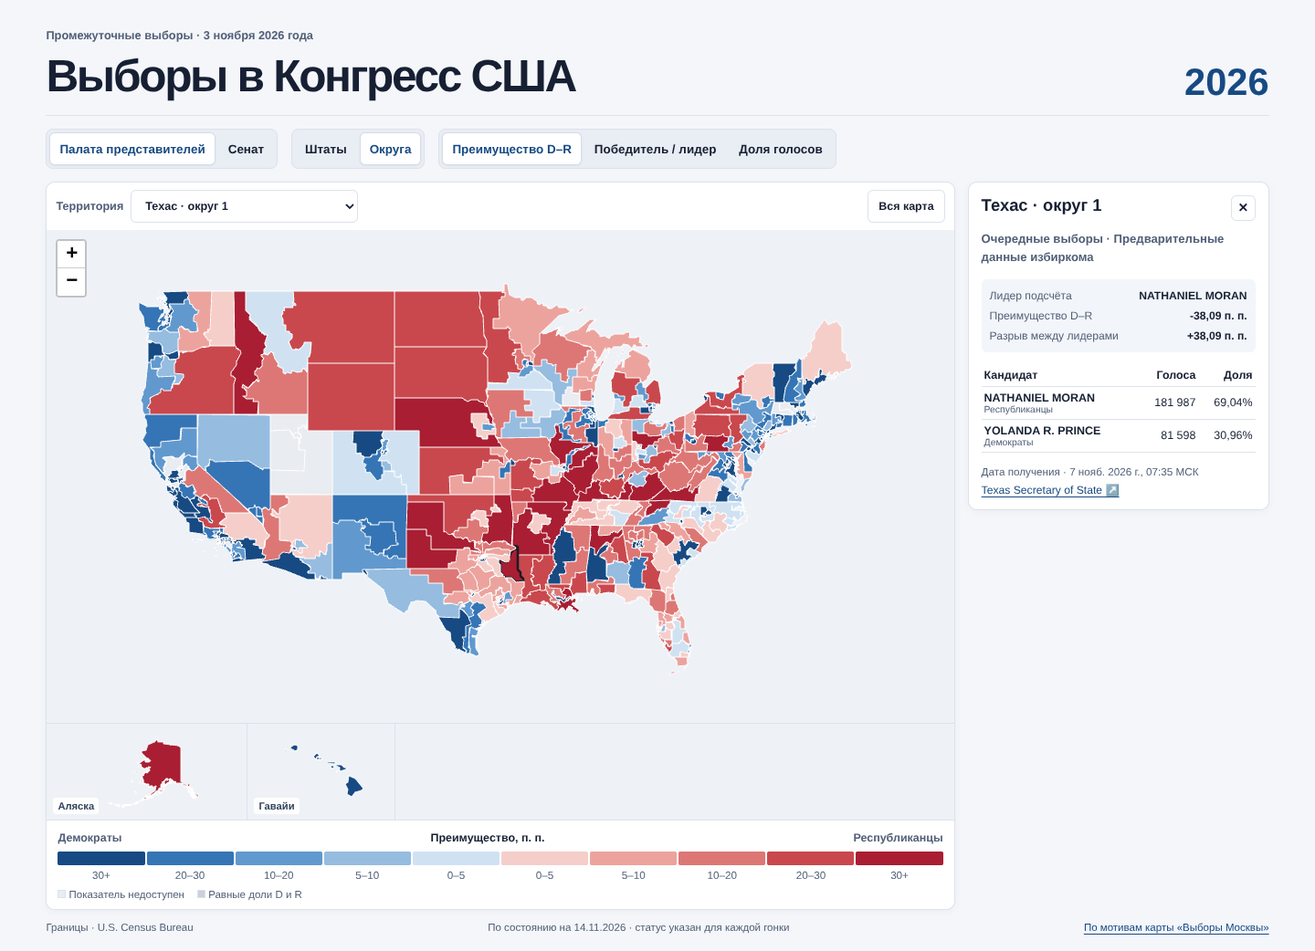
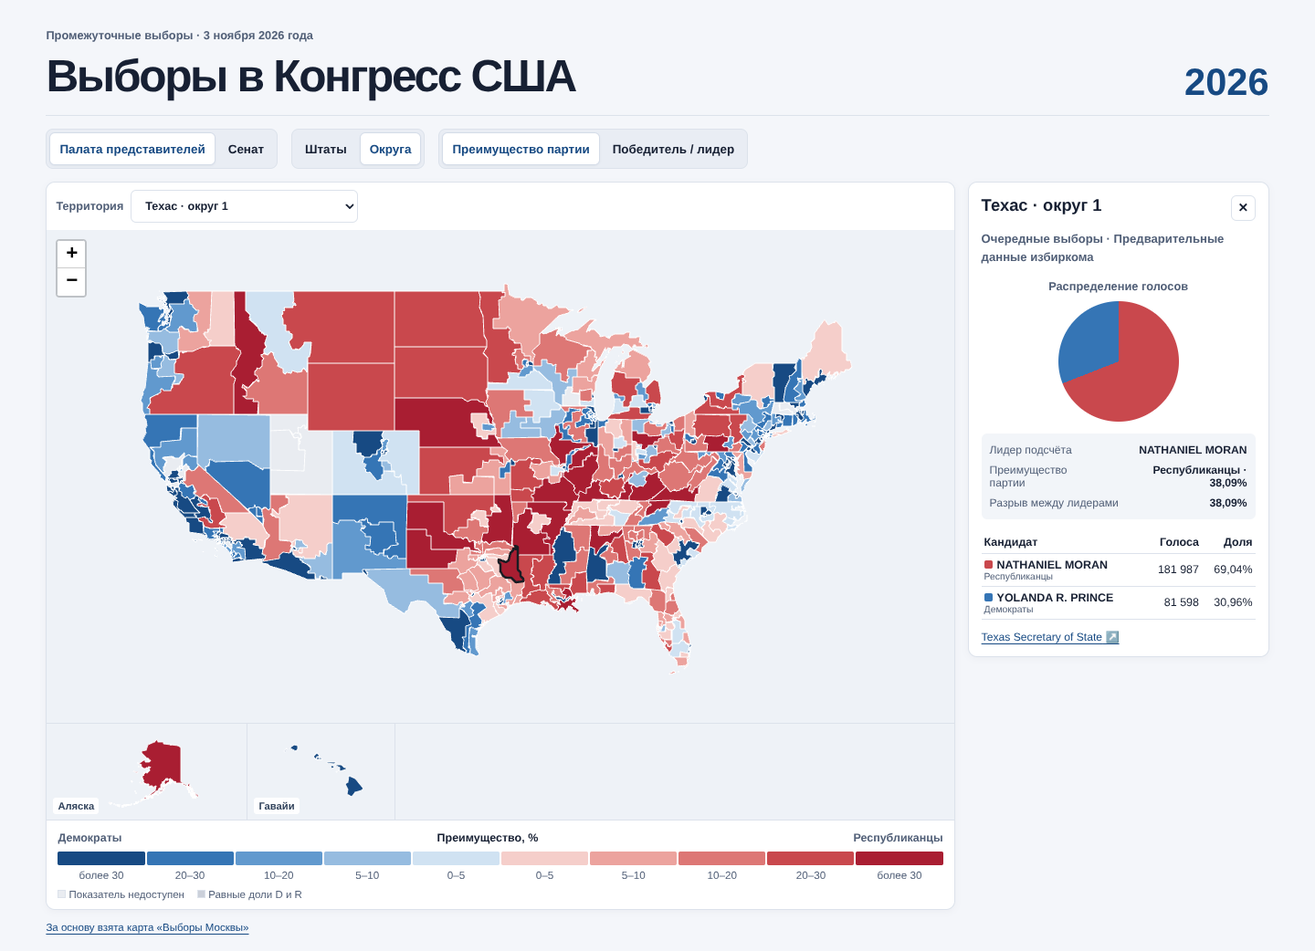
Add election result pie charts and simplify map controls

diff --git a/src/components/ElectionMap.jsx b/src/components/ElectionMap.jsx
@@ -1,6 +1,7 @@
-import React, { useEffect, useMemo } from 'react';
+import React, { useEffect, useLayoutEffect, useMemo, useRef } from 'react';
 import { GeoJSON, MapContainer, useMap } from 'react-leaflet';
-import { areaName, formatMargin } from '../utils/geojsonUtils.js';
+import { formatMargin, marginParty } from '../utils/geojsonUtils.js';
+import { parties } from '../config/elections.js';
 import { featureColor } from '../utils/colorScales.js';
 
 const regions = [
@@ -16,7 +17,7 @@ function alaskaInset(geometry) {
   return { ...geometry, coordinates: move(geometry.coordinates) };
 }
 
-function FitRegion({ bounds, resetKey }) {
+function FitRegion({ bounds }) {
   const map = useMap();
   useEffect(() => {
     const container = map.getContainer();
@@ -29,16 +30,25 @@ function FitRegion({ bounds, resetKey }) {
     });
     observer.observe(container);
     return () => observer.disconnect();
-  }, [bounds, map, resetKey]);
+  }, [bounds, map]);
   return null;
 }
 
-function MapRegion({ region, features, raceFor, metric, selected, select, view, resetKey }) {
+function MapRegion({ region, features, raceFor, metric, selected, select, view }) {
   const data = useMemo(() => ({
     type: 'FeatureCollection', features: features.filter(({ properties }) => region.key === 'main'
       ? !['AK', 'HI'].includes(properties.code) : properties.code === region.key)
       .map((feature) => region.key === 'AK' ? { ...feature, geometry: alaskaInset(feature.geometry) } : feature),
   }), [features, region.key]);
+
+  const layerRef = useRef(null);
+  const tooltipContext = useRef({ raceFor, metric });
+  useLayoutEffect(() => {
+    tooltipContext.current = { raceFor, metric };
+    layerRef.current?.eachLayer((layer) => {
+      if (layer.isTooltipOpen()) layer.getTooltip().update();
+    });
+  }, [raceFor, metric]);
 
   const style = ({ properties }) => ({
     color: selected === properties.geoid ? '#191c23' : '#fff',
@@ -48,19 +58,24 @@ function MapRegion({ region, features, raceFor, metric, selected, select, view, 
 
   const bind = (feature, layer) => {
     const properties = feature.properties;
-    const tooltip = document.createElement('div');
-    const title = document.createElement('strong');
-    title.textContent = areaName(properties);
-    const line = document.createElement('div');
-    const race = raceFor(properties.geoid);
-    line.textContent = race ? (race.leader?.name ?? 'Лидер не установлен') : 'Выборов не было или нет данных';
-    tooltip.append(title, line);
-    if (race?.demMargin != null) {
-      const margin = document.createElement('div');
-      margin.textContent = 'D–R ' + formatMargin(race.demMargin);
-      tooltip.append(margin);
-    }
-    layer.bindTooltip(tooltip, { sticky: true });
+    layer.bindTooltip(() => {
+      const tooltip = document.createElement('div');
+      const title = document.createElement('strong');
+      const { raceFor: currentRaceFor, metric: currentMetric } = tooltipContext.current;
+      const race = currentRaceFor(properties.geoid);
+      const byParty = currentMetric === 'margin' || Boolean(race?.districtCount);
+      const advantage = byParty ? race?.demMargin : race?.leaderMargin;
+      const name = byParty ? parties[marginParty(advantage)] : race?.leader?.name;
+      const tie = byParty ? advantage === 0 : race?.tie;
+      title.textContent = name ?? (tie ? 'Равенство голосов' : 'Нет данных о преимуществе');
+      tooltip.append(title);
+      if (advantage != null) {
+        const margin = document.createElement('div');
+        margin.textContent = formatMargin(advantage);
+        tooltip.append(margin);
+      }
+      return tooltip;
+    }, { sticky: true });
     layer.on({
       click: () => select(properties.geoid),
       mouseover: () => { layer.setStyle({ color: '#222b3a', weight: 2 }); layer.bringToFront(); },
@@ -76,13 +91,13 @@ function MapRegion({ region, features, raceFor, metric, selected, select, view, 
     zoomSnap={0.25} maxZoom={12} scrollWheelZoom={false} dragging={region.key === 'main'}
     doubleClickZoom={region.key === 'main'} touchZoom={region.key === 'main'}
     keyboard={region.key === 'main'} boxZoom={region.key === 'main'} zoomAnimation={false}>
-    <FitRegion bounds={region.bounds} resetKey={resetKey} />
-    <GeoJSON key={view} data={data} style={style} onEachFeature={bind} />
+    <FitRegion bounds={region.bounds} />
+    <GeoJSON key={view} ref={layerRef} data={data} style={style} onEachFeature={bind} />
   </MapContainer>;
 }
 
-export default function ElectionMap({ features, raceFor, metric, selected, select, view, resetKey }) {
-  const props = { features, raceFor, metric, selected, select, view, resetKey };
+export default function ElectionMap({ features, raceFor, metric, selected, select, view }) {
+  const props = { features, raceFor, metric, selected, select, view };
   return <div className="map-layout" data-selected={selected ?? ''}>
     <MapRegion region={regions[0]} {...props} />
     <div className="insets">

diff --git a/src/components/ElectionInfoPanel.jsx b/src/components/ElectionInfoPanel.jsx
@@ -1,13 +1,8 @@
 import React from 'react';
 import { parties, statusLabels } from '../config/elections.js';
-import { areaName, formatMargin, formatNumber, formatPercent } from '../utils/geojsonUtils.js';
+import { areaName, formatMargin, formatNumber, formatPercent, marginParty } from '../utils/geojsonUtils.js';
 
-const dateFormat = new Intl.DateTimeFormat('ru-RU', { dateStyle: 'medium', timeStyle: 'short', timeZone: 'Europe/Moscow' });
-const date = (value) => {
-  if (!value) return '—';
-  const parsed = new Date(value);
-  return Number.isNaN(parsed.valueOf()) ? value : dateFormat.format(parsed) + ' МСК';
-};
+import ElectionPie, { pieColor } from './ElectionPie.jsx';
 
 export default function ElectionInfoPanel({ selected, race, races = [], selectRace, office, clear, featureCount }) {
   if (!selected) return <aside className="info panel" aria-label="Сведения">
@@ -18,7 +13,7 @@ export default function ElectionInfoPanel({ selected, race, races = [], selectRa
 
   const isStateTotal = Boolean(race?.districtCount);
   const status = race ? statusLabels[race.status] : null;
-  const reportDate = race?.updatedAt || race?.retrievedAt;
+  const leadingParty = parties[marginParty(race?.demMargin)];
   return <aside className="info panel" aria-label="Сведения о территории">
     <div className="info-heading"><h2>{areaName(selected)}</h2>
       <button type="button" className="quiet-button" aria-label="Закрыть сведения" onClick={clear}>×</button></div>
@@ -33,24 +28,22 @@ export default function ElectionInfoPanel({ selected, race, races = [], selectRa
       {race.basis === 'first-choice' && <p className="quiet">Первые предпочтения. Лидер по этому подсчёту может отличаться от победителя после перераспределения голосов.</p>}
       {isStateTotal && <p className="quiet">{race.availableCount} из {race.districtCount} округов имеют данные.
         {!race.comparable && ' Сводный показатель недоступен: по части округов голоса или данные по двум партиям несопоставимы.'}</p>}
+      <ElectionPie race={race} />
       <dl className="numbers">
         <div><dt>{isStateTotal ? 'Лидер по голосам' : race.declaredWinner ? 'Победитель' : 'Лидер подсчёта'}</dt>
           <dd>{race.tie && !race.declaredWinner ? 'Равенство голосов' : race.leader?.name ?? '—'}</dd></div>
-        <div><dt>Преимущество D–R</dt><dd>{formatMargin(race.demMargin)}</dd></div>
+        <div><dt>Преимущество партии</dt><dd>{leadingParty && leadingParty + ' · '}{formatMargin(race.demMargin)}</dd></div>
         {!isStateTotal && <div><dt>Разрыв между лидерами</dt><dd>{formatMargin(race.leaderMargin)}</dd></div>}
       </dl>
       <table className="results">
         <thead><tr><th scope="col">{isStateTotal ? 'Партия' : 'Кандидат'}</th>
           <th scope="col">Голоса</th><th scope="col">Доля</th></tr></thead>
         <tbody>{race.candidates.map((candidate, i) => <tr key={candidate.name + '-' + i}>
-          <th scope="row">{candidate.name}{!isStateTotal && <small>{parties[candidate.party] && candidate.party !== 'other' ? parties[candidate.party] : candidate.partyRaw || 'Партия не указана'}</small>}</th>
+          <th scope="row">{race.complete && candidate.votes > 0 && <i className="pie-key" aria-hidden="true" style={{ background: pieColor(race, i) }} />}{candidate.name}{!isStateTotal && <small>{parties[candidate.party] && candidate.party !== 'other' ? parties[candidate.party] : candidate.partyRaw || 'Партия не указана'}</small>}</th>
           <td>{formatNumber(candidate.votes)}</td><td>{formatPercent(candidate.share)}</td>
         </tr>)}</tbody>
       </table>
       <div className="sources">
-        <p>{isStateTotal && race.firstUpdatedAt !== reportDate
-          ? <>Снимки данных от {date(race.firstUpdatedAt)} до {date(reportDate)}</>
-          : <>{race.updatedAt ? 'Обновление источника' : 'Дата получения'} · {date(reportDate)}</>}</p>
         {(race.sources ?? [{ source: race.source, url: race.url }]).filter((item) => item.url)
           .map((item) => <a key={item.url} href={item.url} target="_blank" rel="noreferrer">{item.source} ↗</a>)}
       </div>

diff --git a/src/App.jsx b/src/App.jsx
@@ -14,7 +14,6 @@ export default function App() {
   const [metric, setMetric] = useState('margin');
   const [selected, setSelected] = useState('');
   const [selectedRace, setSelectedRace] = useState('');
-  const [resetKey, setResetKey] = useState(0);
   const [retry, setRetry] = useState(0);
   const [loaded, setLoaded] = useState(null);
   const [error, setError] = useState(null);
@@ -32,7 +31,7 @@ export default function App() {
         if (!current) return;
         const index = indexRaces(result);
         const races = isHouse && geography === 'states' ? summarizeStates(districts.features, index) : index;
-        setLoaded({ key, features: shape.features, races, date: result.snapshotDate });
+        setLoaded({ key, features: shape.features, races });
         setError(null);
       })
       .catch((failure) => { if (current) setError({ key, message: failure.message }); });
@@ -82,23 +81,20 @@ export default function App() {
               {selection.map((item) => <option key={item.geoid} value={item.geoid}>{areaName(item)}</option>)}
             </select>
           </label>
-          <button type="button" className="quiet-button" disabled={loading} onClick={() => setResetKey((n) => n + 1)}>Вся карта</button>
         </div>
         {loading ? <div className="map-placeholder" role={failed ? 'alert' : 'status'}>
           {failed ? <><p>Ошибка загрузки данных. {error.message}</p><button type="button" onClick={() => {
             setError(null); setRetry((n) => n + 1);
           }}>Повторить</button></> : 'Загружаются результаты и границы…'}
         </div> : <ElectionMap key={year + '-' + geography} features={loaded.features}
-          view={key + '-' + selectedRace} {...{ metric, raceFor, selected, select, resetKey }} />}
+          view={key} {...{ metric, raceFor, selected, select }} />}
         <ElectionLegend {...{ metric, office }} />
       </section>
       <ElectionInfoPanel selected={territory} race={raceFor(selected)} races={loaded?.races.get(selected)}
         selectRace={setSelectedRace} clear={() => select('')} featureCount={selection.length} office={office} />
     </div>
     <footer className="footer">
-      <span>Границы · U.S. Census Bureau</span>
-      <span>По состоянию на {loaded?.date ? loaded.date.split('-').reverse().join('.') : '—'} · статус указан для каждой гонки</span>
-      <a href="https://github.com/terracodingzavr/MoscowElectionwebmap">По мотивам карты «Выборы Москвы»</a>
+      <a href="https://terracodingzavr.github.io/MoscowElectionwebmap/">За основу взята карта «Выборы Москвы»</a>
     </footer>
   </main>;
 }

diff --git a/src/utils/colorScales.js b/src/utils/colorScales.js
@@ -1,4 +1,4 @@
-const ranges = ['0–5', '5–10', '10–20', '20–30', '30+'];
+const ranges = ['0–5', '5–10', '10–20', '20–30', 'более 30'];
 const thresholds = [0, 5, 10, 20, 30];
 const partyColors = {
   D: ['#D0E2F2', '#96BCE0', '#6199CE', '#3575B5', '#174A83'],
@@ -15,27 +15,18 @@ export const winnerLegend = [
   { label: 'Республиканцы', color: '#C9484D', party: 'R' },
   { label: 'Другая партия', color: neutral.other, party: 'other' },
 ];
-const shareThresholds = [0, 25, 40, 50, 60];
-const shareColors = ['#ece8f4', '#d6c9e6', '#b39bd1', '#895fb5', '#5b3980'];
-export const shareLegend = ['0–25%', '25–40%', '40–50%', '50–60%', '60%+']
-  .map((label, i) => ({ label, color: shareColors[i] }));
 
 export function marginColor(margin) {
   if (!Number.isFinite(margin)) return neutral.missing;
   if (margin === 0) return neutral.tie;
-  const cut = thresholds.findLastIndex((limit) => Math.abs(margin) >= limit);
+  const strength = Math.abs(margin);
+  const cut = thresholds.findLastIndex((limit) => limit === 30 ? strength > limit : strength >= limit);
   return partyColors[margin > 0 ? 'D' : 'R'][cut];
 }
 
 export function featureColor(race, metric) {
   if (!race) return neutral.missing;
   if (metric === 'margin') return marginColor(race.demMargin);
-  if (metric === 'winner') {
-    if (race.tie) return neutral.tie;
-    return winnerLegend.find((item) => item.party === race.leader?.party)?.color || neutral.missing;
-  }
-  const share = race.candidates.find(({ name }) => name === race.leader?.name)?.share;
   if (race.tie) return neutral.tie;
-  const cut = shareThresholds.findLastIndex((limit) => share != null && share >= limit);
-  return cut === -1 ? neutral.missing : shareColors[cut];
+  return winnerLegend.find((item) => item.party === race.leader?.party)?.color || neutral.missing;
 }

diff --git a/src/styles/map.css b/src/styles/map.css
@@ -65,6 +65,10 @@ h1 { font-weight: 730; font-size: clamp(1.7rem, 4vw, 3.1rem); letter-spacing: -.
 .numbers div { display: flex; padding: 4px 0; justify-content: space-between; gap: 8px; }
 .numbers dt { color: var(--muted); }
 .numbers dd { margin: 0; text-align: right; font-weight: 700; }
+.vote-pie { display: grid; justify-items: center; gap: 9px; margin: 13px 0; }
+.vote-pie figcaption { color: var(--muted); font-size: .8rem; font-weight: 650; }
+.vote-pie-circle { width: 132px; aspect-ratio: 1; border-radius: 50%; }
+.pie-key { display: inline-block; width: 9px; height: 9px; margin-right: 5px; border-radius: 2px; }
 .results { width: 100%; border-collapse: collapse; font-size: .78rem; }
 .results th { text-align: left; font-weight: 650; }
 .results tbody th { overflow-wrap: anywhere; }
@@ -72,7 +76,6 @@ h1 { font-weight: 730; font-size: clamp(1.7rem, 4vw, 3.1rem); letter-spacing: -.
 .results td, .results thead th:not(:first-child) { text-align: right; white-space: nowrap; font-variant-numeric: tabular-nums; }
 .results small { display: block; color: var(--muted); font-weight: 400; }
 .sources { display: flex; flex-direction: column; gap: 4px; margin-top: 12px; font-size: .76rem; }
-.sources p { margin: 0; color: var(--muted); font-size: .73rem; }
 .race-picker { display: grid; gap: 5px; font-size: .78rem; margin-bottom: 10px; }
 .footer { display: flex; flex-wrap: wrap; gap: 8px 15px; justify-content: space-between; margin-top: 13px; color: var(--muted); font-size: .72rem; }
 @media (max-width: 800px) {
@@ -87,4 +90,5 @@ h1 { font-weight: 730; font-size: clamp(1.7rem, 4vw, 3.1rem); letter-spacing: -.
   .map-toolbar { padding-inline: 7px; }
   .legend { padding-inline: 8px; }
   .legend-title { font-size: .64rem; }
+  .legend-class { align-content: start; }
 }

diff --git a/src/components/ElectionPie.jsx b/src/components/ElectionPie.jsx
@@ -1,0 +1,39 @@
+import React from 'react';
+import { formatPercent } from '../utils/geojsonUtils.js';
+
+const palette = {
+  D: ['#3575B5', '#76A8D4', '#174A83', '#B0CAE5'],
+  R: ['#C9484D', '#EB8C87', '#A91E32', '#F5B4AE'],
+  other: ['#8868AB', '#528672', '#AC752D', '#828CA0', '#9C79A6', '#C5A34C'],
+};
+
+export function pieColor(race, index) {
+  const group = race.candidates[index].party ?? 'other';
+  const colors = palette[group];
+  const preceding = race.candidates.slice(0, index)
+    .filter((candidate) => (candidate.party ?? 'other') === group && candidate.votes > 0).length;
+  return colors[preceding % colors.length];
+}
+
+export default function ElectionPie({ race }) {
+  if (!race.complete) return null;
+  let cumulative = 0;
+  const segments = race.candidates.flatMap((candidate, index) => {
+    if (!candidate.votes) return [];
+    const from = cumulative * 100 / race.totalVotes;
+    cumulative += candidate.votes;
+    const to = cumulative * 100 / race.totalVotes;
+    return [{
+      color: pieColor(race, index),
+      from,
+      to,
+      label: candidate.name + ' ' + formatPercent(candidate.share),
+    }];
+  });
+  const stops = segments.map(({ color, from, to }) => color + ' ' + from + '% ' + to + '%');
+  return <figure className="vote-pie">
+    <figcaption>Распределение голосов</figcaption>
+    <div role="img" aria-label={segments.map(({ label }) => label).join(', ')}
+      className="vote-pie-circle" style={{ background: 'conic-gradient(' + stops.join(', ') + ')' }} />
+  </figure>;
+}

diff --git a/src/utils/electionCalculations.js b/src/utils/electionCalculations.js
@@ -55,13 +55,11 @@ export function summarizeStates(features, races) {
       }
       votes.other = totalVotes - votes.D - votes.R;
     }
-    const timestamp = known.map((r) => r.updatedAt || r.retrievedAt).filter(Boolean).sort();
     const statuses = new Set(known.map((r) => r.status));
     const result = summarizeRace({
       id: 'state-' + state, office: 'house', geoid: state, stateFips: state, kind: 'general',
       status: statuses.size === 1 ? known[0].status : 'mixed-preliminary', totalVotes,
       districtCount: entries.length, availableCount: known.length, comparable,
-      firstUpdatedAt: timestamp[0] ?? null, updatedAt: timestamp.at(-1) ?? null,
       sources: [...new Map(known.map((r) => [r.source, { source: r.source, url: r.url }])).values()],
       candidates: [
         { name: 'Демократы', party: 'D', votes: comparable ? votes.D : null },

diff --git a/src/components/ElectionLegend.jsx b/src/components/ElectionLegend.jsx
@@ -1,12 +1,11 @@
 import React from 'react';
-import { marginLegend, neutral, shareLegend, winnerLegend } from '../utils/colorScales.js';
+import { marginLegend, neutral, winnerLegend } from '../utils/colorScales.js';
 
 export default function ElectionLegend({ metric, office }) {
-  const options = { margin: marginLegend, winner: winnerLegend, share: shareLegend };
+  const options = { margin: marginLegend, winner: winnerLegend };
   const heading = {
-    margin: 'Преимущество, п. п.',
+    margin: 'Преимущество, %',
     winner: office === 'house' ? 'Партия победителя или лидера' : 'Партия победителя или лидера гонки',
-    share: 'Доля голосов лидера',
   };
   return <section className="legend" aria-label="Легенда">
     <div className="legend-title">

diff --git a/src/utils/geojsonUtils.js b/src/utils/geojsonUtils.js
@@ -24,4 +24,9 @@ export function areaName({ ru, district, delegate }) {
 const number = new Intl.NumberFormat('ru-RU', { maximumFractionDigits: 2 });
 export const formatNumber = (value) => value == null ? '—' : number.format(value);
 export const formatPercent = (value) => value == null ? '—' : number.format(value) + '%';
-export const formatMargin = (value) => value == null ? '—' : (value > 0 ? '+' : '') + number.format(value) + ' п. п.';
+export const formatMargin = (value) => formatPercent(value == null ? null : Math.abs(value));
+
+export function marginParty(value) {
+  if (!Number.isFinite(value) || value === 0) return null;
+  return value > 0 ? 'D' : 'R';
+}

diff --git a/tests/elections.test.js b/tests/elections.test.js
@@ -23,7 +23,9 @@ test('ten colors and symmetric exact boundaries match the legend', () => {
   assert.equal(marginLegend.length, 10);
   assert.equal(marginColor(0), neutral.tie);
   assert.equal(marginColor(null), neutral.missing);
-  for (const [index, value] of [0.01, 5, 10, 20, 30].entries()) {
+  assert.equal(marginColor(30), marginLegend[1].color);
+  assert.equal(marginColor(-30), marginLegend[8].color);
+  for (const [index, value] of [0.01, 5, 10, 20, 30.01].entries()) {
     assert.equal(marginColor(value), marginLegend[4 - index].color);
     assert.equal(marginColor(-value), marginLegend[5 + index].color);
   }

diff --git a/src/config/elections.js b/src/config/elections.js
@@ -16,7 +16,6 @@ export const statusLabels = {
 };
 
 export const metrics = {
-  margin: 'Преимущество D–R',
+  margin: 'Преимущество партии',
   winner: 'Победитель / лидер',
-  share: 'Доля голосов',
 };

diff --git a/README.md b/README.md
@@ -4,11 +4,11 @@
 
 ![Карта округов Палаты представителей и карточка округа Техаса](docs/map-preview.png)
 
-Планируемый адрес GitHub Pages — [terracodingzavr.github.io/US-Elections-2026-Webmap](https://terracodingzavr.github.io/US-Elections-2026-Webmap/). Последнее обновление набора — **14 ноября 2026 года**.
+[Открыть карту на GitHub Pages](https://terracodingzavr.github.io/US-Elections-2026-Webmap/).
 
 ## Как читать карту
 
-Основная картограмма показывает разницу долей демократов и республиканцев в процентных пунктах. Синие и красные классы симметричны и используют пороги 5, 10, 20 и 30 п. п. Щелчок по территории или выбор из списка открывает голоса, доли, статус и ссылку на источник. Аляска и Гавайи отображаются во врезках.
+Основная картограмма показывает разницу долей демократов и республиканцев в процентных пунктах. Синие и красные классы симметричны и используют пороги 5%, 10%, 20% и 30%. Щелчок по территории или выбор из списка открывает диаграмму, таблицу голосов, статус и ссылку на источник. Аляска и Гавайи отображаются во врезках.
 
 Результаты предварительные. Для 293 гонок Палаты и 21 гонки Сената использованы публикации избиркомов. Для остальных 143 и 14 соответственно использованы подсчёты агрегаторов. При неполном или несопоставимом наборе данных штат может не иметь рассчитанного сводного преимущества. Рейтинговые гонки, для которых доступны первые предпочтения, отмечены в карточках.
 
